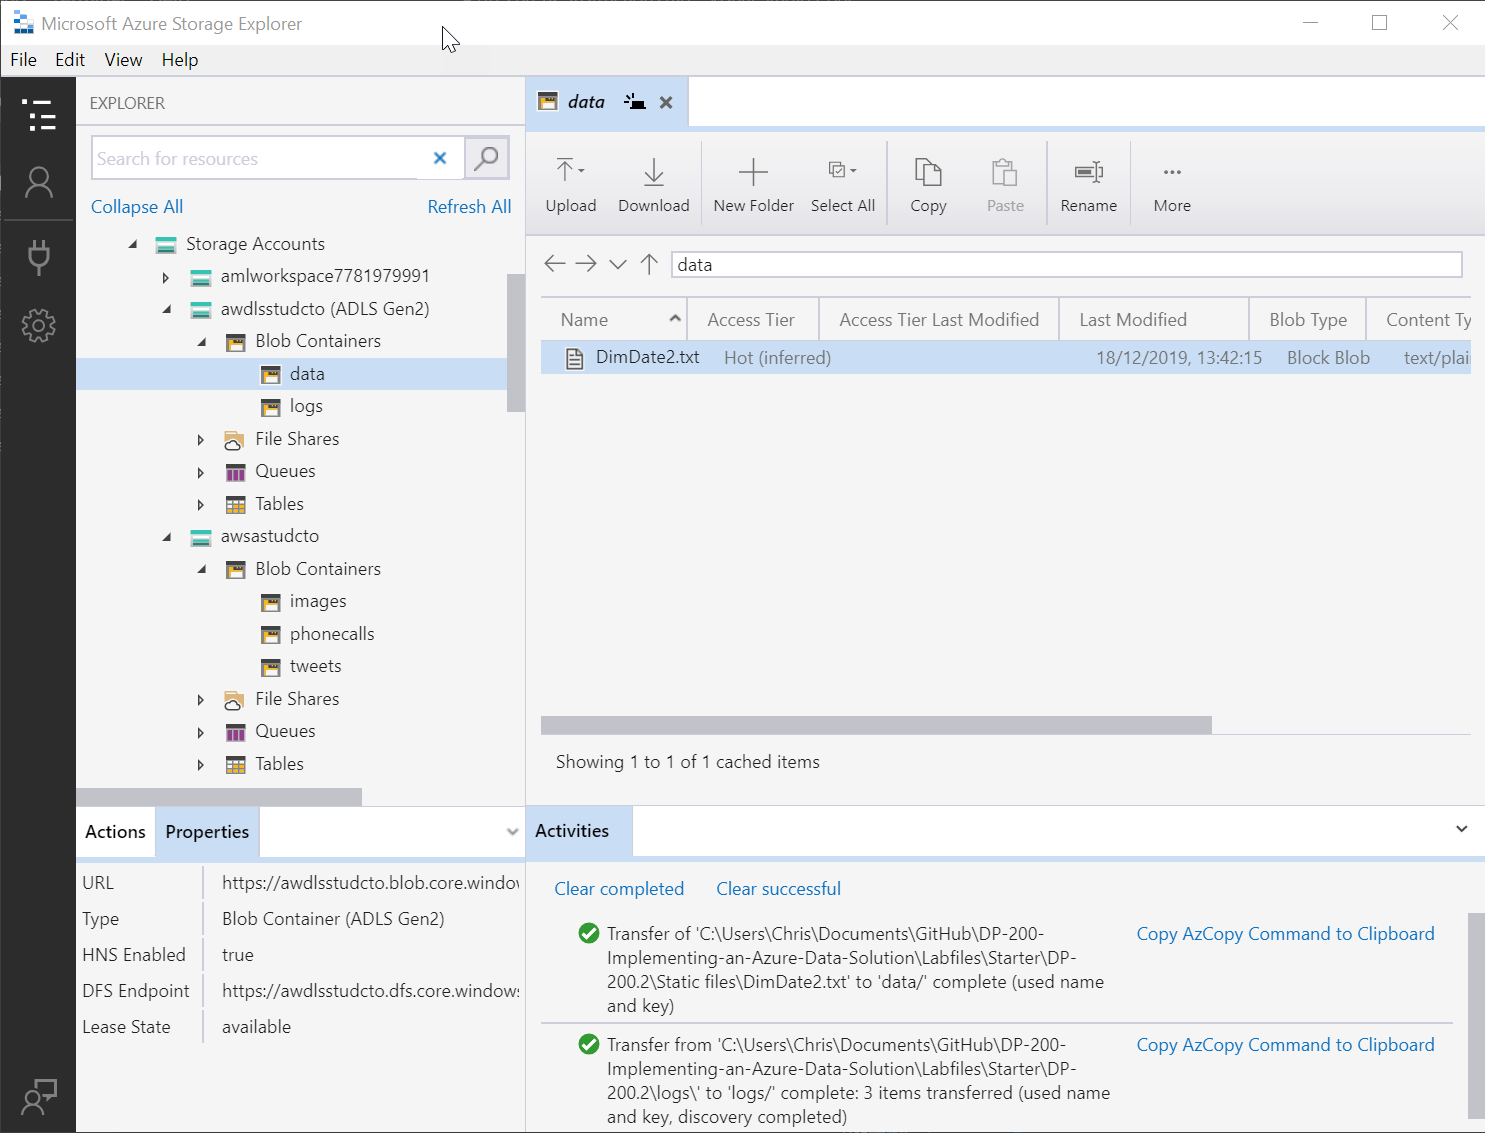
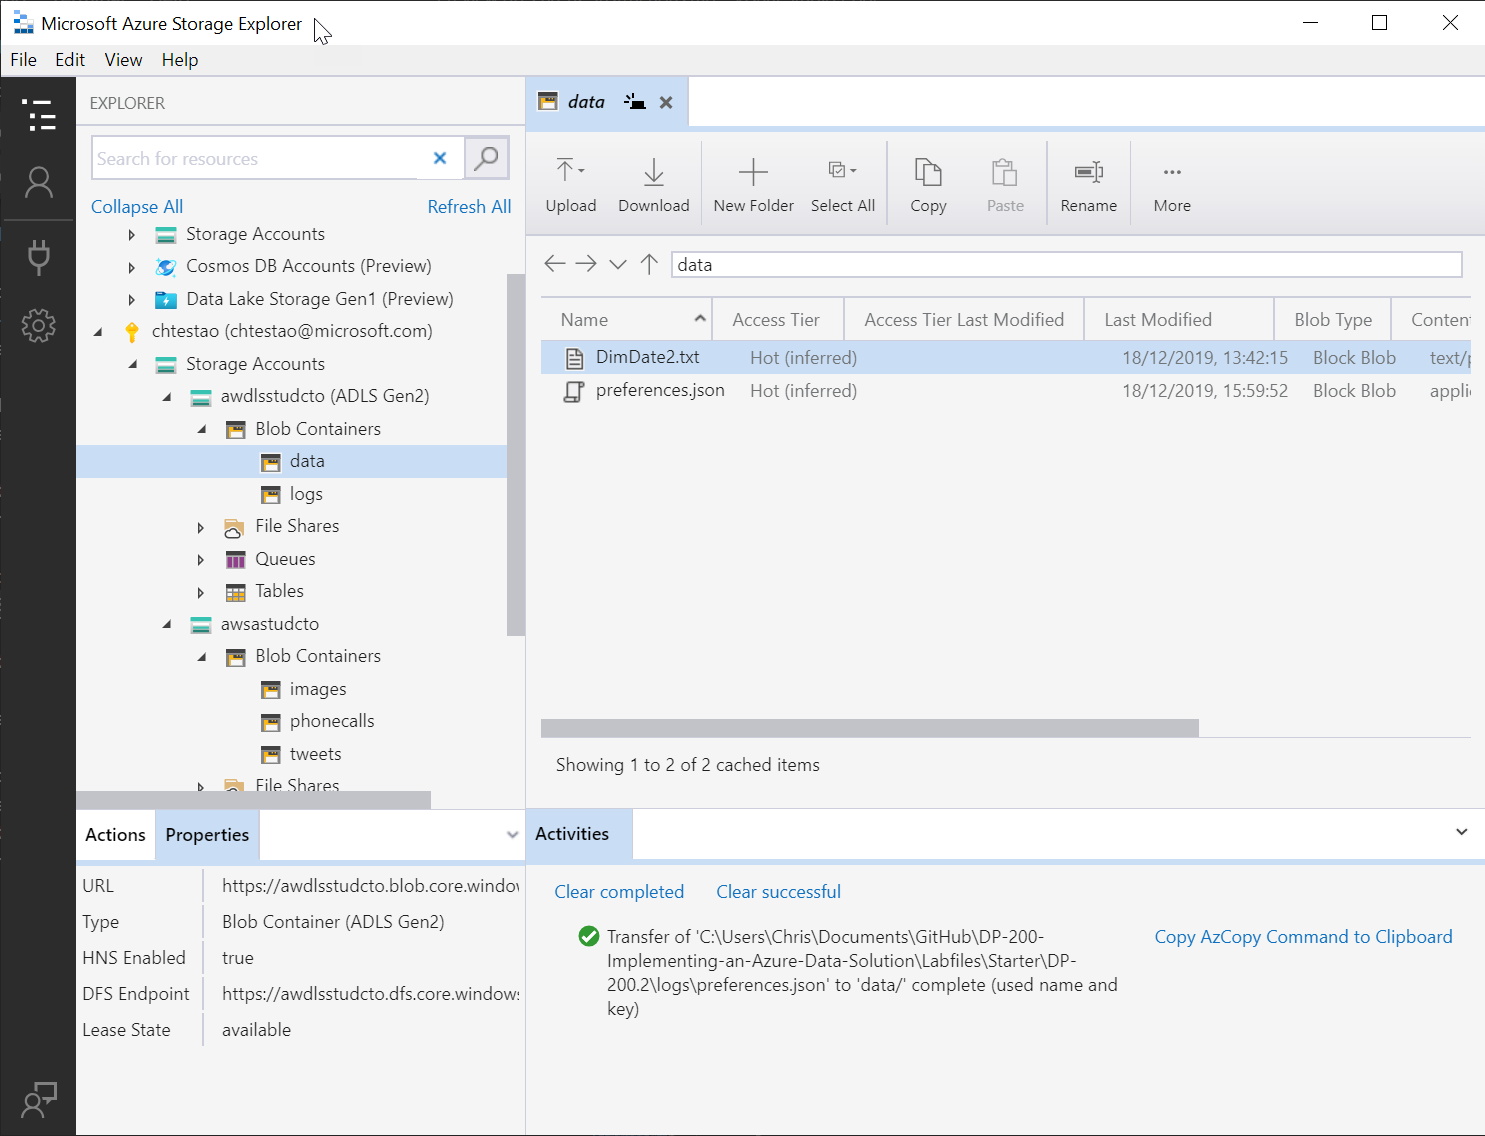
Module 3 lab updates

diff --git a/instructions/dp-200-03_instructions.md b/instructions/dp-200-03_instructions.md
@@ -9,7 +9,7 @@
 
 ## Lab overview
 
-By the end of this lab the student will be able to explain why Azure Databricks can be used to help in Data Science projects. The students will provision and Azure Databricks instance and will then create a workspace that will be used to perform a simple data preparation task from a Data Lake Store Gen II store. Finally, the student will perform a walk-through of performing transformations using Azure Databricks.
+By the end of this lab the student will be able to explain why Azure Databricks can be used to help in Data Science projects. The students will provision an Azure Databricks instance and will then create a workspace that will be used to perform simple data preparation tasks from a Data Lake Store Gen2 store. Finally, the student will perform a walk-through of performing transformations using Azure Databricks.
 
 ## Lab objectives
   
@@ -24,7 +24,7 @@ After completing this lab, you will be able to:
   
 In response to the Information Services (IS) department, you will start the process of building a predictive analytics platform by listing out the benefits of using the technology. The department will be joined by data scientists and they want to ensure that there is a predictive analytics environment available to the new team members.
 
-You will stand up and provision an Azure Databricks environment, and then test that this environment works by performing a simple data preparation routine on the service by ingesting data from a pre-existing Data Lake Storage Gen II account. As a data engineer, it has been indicated to you that you may be required to help the data scientists perform data preparation exercises. To that end you have been recommended to walk-through a notebook that can help you perform basic transformations.
+You will stand up and provision an Azure Databricks environment, and then test that this environment works by performing a simple data preparation routine on the service by ingesting data from a pre-existing Data Lake Storage Gen2 account. As a data engineer, it has been indicated to you that you may be required to help the data scientists perform data preparation exercises. To that end, you have been recommended to walk-through a notebook that can help you perform basic transformations.
 
 At the end of this lad, you will have:
 
@@ -37,7 +37,7 @@ At the end of this lad, you will have:
 
 ## Exercise 1: Explain Azure Databricks
 
->**Important**: Perform **exercise 2 first**, and return to exercise 1 after starting the creation of a Databricks Cluster in exercise 2 which will take 10 minutes to provision.
+>**Important**: Perform **exercise 2 first**, and return to exercise 1 after starting the creation of a Databricks Cluster in exercise 2, as it will take 10 minutes to provision.
 
 Estimated Time: 15 minutes
 
@@ -77,45 +77,49 @@ The main tasks for this exercise are as follows:
 
 ### Task 1: Create and configure an Azure Databricks instance.
 
-1. In the Azure portal, navigate to the **+ Create a resource** blade.
+1. In the Azure portal, at the top left of the screen, click on the **Home** hyperlink.
 
-1. In the New blade, navigate to the **Search the Marketplace** text box, and type the word **databricks**. Click **Azure Databricks** in the list that appears.
+1. In the Azure portal, click on the **+ Create a resource** icon.
+
+1. In the New screen, click in the **Search the Marketplace** text box, and type the word **databricks**. Click **Azure Databricks** in the list that appears.
 
 1. In the **Azure Databricks** blade, click **Create**.
 
-1. From the **Create Azure Databricks** blade, create an Azure Databricks Workspace with the following settings:
+1. In the **Azure Databricks Service** blade, create an Azure Databricks Workspace with the following settings:
 
-    - Workspace name: **awdbwsstudxx**, where **xx** are your initials.
+    - **Workspace name**: **awdbwsstudxx**, where **xx** are your initials.
 
-    - Subscription: the name of the subscription you are using in this lab
+    - **Subscription**: the name of the subscription you are using in this lab
 
-    - Resource group name: **awrgstudxx**, where **xx** are your initials.
+    - **Resource group**: **awrgstudxx**, where **xx** are your initials.
 
-    - Location: the name of the Azure region which is closest to the lab location and where you can provision Azure VMs.
+    - **Location**: the name of the Azure region which is closest to the lab location and where you can provision Azure VMs.
 
-    - Pricing Tier: **Premium (+ Role-based access controls)**.
+    - **Pricing Tier**: **Premium (+ Role-based access controls)**.
 
-    - Deploy Azure Databricks workspace in your Virtual Network: **No**.
+    - **Deploy Azure Databricks workspace in your Virtual Network**: **No**.
 
-1. In the **Azure Databricks Service*** blade, click **Create**.
+        ![Creating Azure Databricks in the Azure portal](Linked_Image_Files/M03-E02-T01-img01.png)
 
-1. After the validation of the **Create Azure Databricks*** blade, click **Create**.
+1. In the **Azure Databricks Service** blade, click **Create**.
 
    > **Note**: The provision will takes approximately 3 minutes. The Databricks Runtime is built on top of Apache Spark and is natively built for the Azure cloud. Azure Databricks completely abstracts out the infrastructure complexity and the need for specialized expertise to set up and configure your data infrastructure. For data engineers, who care about the performance of production jobs, Azure Databricks provides a Spark engine that is faster and performant through various optimizations at the I/O layer and processing layer (Databricks I/O).
-
+   
 ### Task 2: Open Azure Databricks.
 
 1. Confirm that the Azure Databricks service has been created.
 
-1. In the Azure portal, navigate to the **Resource group** blade.
+1. In the Azure portal, navigate to the **Resource group** screen.
 
-1. In the Resource groups blade, click on the ****awrgstudxx** resource group, where **xx** are your initials.
+1. In the Resource groups screen, click on the ****awrgstudxx** resource group, where **xx** are your initials.
 
-1. In the **awrgstudxx** blade, click **awdbwsstudxx**, where **xx** are your initials to open Azure Databricks. This will open your Azure Databricks instance.
+1. In the **awrgstudxx** screen, click **awdbwsstudxx**, where **xx** are your initials to open Azure Databricks. This will open your Azure Databricks service.
+
+    ![Azure Databricks Service in the Azure portal](Linked_Image_Files/M03-E02-T02-img01.png)
 
 ### Task 3: Launch a Databricks Workspace and create a Spark Cluster.
 
-1. In the Azure portal, in the **awdbwsstudxx** blade, click on the button **Launch Workspace**.
+1. In the Azure portal, in the **awdbwsstudxx** screen, click on the button **Launch Workspace**.
 
     > **Note**: You will be signed into the Azure Databricks Workspace in a separate tab in Microsoft Edge.
 
@@ -123,17 +127,19 @@ The main tasks for this exercise are as follows:
 
 1. In the **Create Cluster** screen, under New Cluster, create a Databricks Cluster with the following settings, and then click on **Create Cluster**:
 
-    - Cluster name: **awdbclstudxx**, where **xx** are your initials.
+    - **Cluster name**: **awdbclstudxx**, where **xx** are your initials.
 
-    - Cluster Mode: **Standard**
+    - **Cluster Mode**: **Standard**
 
-    - Databricks Runtime Version: **Runtime: 5.1 (Scala 2.11, Spark 2.4.0)**
+    - **Pool**: **None**
 
-    - Python Version: **3**
+    - **Databricks Runtime Version**: **Runtime: 6.2 (Scala 2.11, Spark 2.4.4)**
 
-    - Make sure you select the Terminate after **60** minutes of inactivity check box. If the cluster isn't being used, provide a duration (in minutes) to terminate the cluster.
+    - Make sure you select the **Terminate after 60** minutes of inactivity check box. If the cluster isn't being used, provide a duration (in minutes) to terminate the cluster.
 
     - Leave all the remaining options to their current settings.
+
+        ![Creating an Azure Databricks Cluster in the Azure portal](Linked_Image_Files/M03-E02-T03-img01.png)
 
 1. In the **Create Cluster** screen, click on **Create Cluster** and leave the Microsoft Edge screen open.
 
@@ -151,9 +157,9 @@ The main tasks for this exercise are as follows:
 
 1. Confirm that the Databricks cluster has been created.
 
-1. Collect the Azure Data Lake Store Gen II account name
+1. Collect the Azure Data Lake Store Gen2 account name
 
-1. Enable your Databricks instance to access the Data Lake Gen II Store.
+1. Enable your Databricks instance to access the Data Lake Gen2 Store.
 
 1. Create a Databricks Notebook and connect to a Data Lake Store.
 
@@ -161,47 +167,61 @@ The main tasks for this exercise are as follows:
 
 ### Task 1: Confirm the creation of the Databricks cluster
 
-1. Return back to Microsoft Edge, under **Interaction Clusters** confirm that the State is set to Running for the cluster named **awdbclstudxx**, where **xx** are your initials.
+1. Return back to Microsoft Edge, under **Interactive Clusters** confirm that the state column is set to **Running** for the cluster named **awdbclstudxx**, where **xx** are your initials.
 
-### Task 2: Collect the Azure Data Lake Store Gen II account name
+### Task 2: Collect the Azure Data Lake Store Gen2 account name
 
 1. In Microsoft Edge, click on the  Azure portal tab, click **Resource groups**, and then click **awrgstudxx**, and then click on **awdlsstudxx**, where **xx** are your initials.
 
-1. In the **awdlsstudxx** blade, click on **Access keys**, and then click on the copy icon next to the **Storage account name** and paste it into Notepad.
+1. In the **awdlsstudxx** screen, under settings, click on **Access keys**, and then click on the copy icon next to the **Storage account name** and paste it into Notepad.
 
-### Task 3: Enable your Databricks instance to access the Data Lake Gen II Store.
+    ![Accessing Data Lake Storage account name in the Azure portal](Linked_Image_Files/M03-E03-T02-img01.png)
 
-1. In Microsoft Edge, click on the tab that has the Azure portal, in the blade, click **Azure Active Directory**.
+### Task 3: Enable your Databricks instance to access the Data Lake Gen2 Store.
 
-1. In the **Overview** blade, click on **App registrations**.
+1. In the Azure portal, Click the **Home** hyperlink, and then click the **Azure Active Directory** icon.
 
-1. In the **App registrations** screen, click on the **+ New application registration** button.
+1. In the **Microsoft - Overview** screen, click on **App registrations**.
 
-1. In the register an application screen, provide the **name** of **DLAccess** and under the **Redirect URI (optional)** section, ensure **Web** is selected and type **https://adventure-works.com/exampleapp** for the application value. After setting the values, select **Register**. The DLAccess screen will appear.
+1. In the **Microsoft - App registrations** screen, click on the **+ New registration** button.
 
-1. In the **DLAccess** registered app screen, copy the **Application ID** and **Tenant ID** and paste both into Notepad.
+1. In the register an application screen, provide the **name** of **DLAccess** and under the **Redirect URI (optional)** section, ensure **Web** is selected and type **https://adventure-works.com/exampleapp** for the application value. After setting the values.
 
-1. In the **DLAccess** registered app screen, click on **Certificates and Secrets**, and the click **+New Client Secret..**
+    ![Registering an application in the Azure portal](Linked_Image_Files/M03-E03-T03-img01.png)
 
-1. Provide a **description** of **DL Access Key**, and a **duration** of **In 1 year** for the key. When done, click **Save**.
+1. Click **Register**. The DLAccess screen will appear.
 
-    >**Important**: When you click on Save, the key will appear. You only have one opportunity to copy this key value into Notepad
+1. In the **DLAccess** registered app screen, copy the **Application  (client) ID** and **Directory (tenant) ID** and paste both into Notepad.
+
+1. In the **DLAccess** registered app screen, click on **Certificates and Secrets**, and the click **+ New Client Secret**
+
+1. In the Add a client secret screen. type a **description** of **DL Access Key**, and a **duration** of **In 1 year** for the key. When done, click **Add**.
+
+    ![Adding a client secret in the Azure portal](Linked_Image_Files/M03-E03-T03-img02.png)
+
+    >**Important**: When you click on **Add**, the key will appear as shown in the graphic below. You only have one opportunity to copy this key value into Notepad
+
+    ![Location of the DLAccess Key](Linked_Image_Files/M03-E03-T03-img03.png)
 
 1. Copy the **Application key value** and paste it into Notepad
 
-1. Assign the Storage Blob Data Contributor permission to your resource group. In the Azure portal, click on the **Resource groups** blade, click on the resource group **awrgstudxx**, where **xx** are your initials.
+1. Assign the Storage Blob Data Contributor permission to your resource group. In the Azure portal, click on the **Home** hyperlink, and then the **Resource groups** icon, click on the resource group **awrgstudxx**, where **xx** are your initials.
 
-1. In the **awrgstudxx** blade, click on **Access Control (IAM)** 
+1. In the **awrgstudxx** screen, click on **Access Control (IAM)** 
 
-1. Under **Add a role assignment** click **Add**.
+1. Click on the **Role assignments** tab. 
 
-1. In the **Add role assignment** screen, under Role, select **Storage Blob Data Contributor**.
+1. Click **+ Add**, and click **Add role assignment**
 
-1. In the **Add role assignment** screen, under Select, select **DLAccess**, and then click **Save**.
+1. In the **Add role assignment** blade, under Role, select **Storage Blob Data Contributor**.
 
-1. In the Azure portal, in the blade, click **Azure Active Directory**, Note **your role**. If you have the User role, you must make sure that non-administrators can register applications.
+1. In the **Add role assignment** blade, under Select, select **DLAccess**, and then click **Save**.
 
-1. Click  **User settings** in the Azure Active Directory blade, Check the **App registrations** setting. This value can only be set by an administrator. If set to Yes, any user in the Azure AD tenant can register an app.
+1. In the Azure portal, click the **Home** hyperlink, and then click the **Azure Active Directory** icon, Note **your role**. If you have the User role, you must make sure that non-administrators can register applications.
+
+1. Click **Users**, and then click **User settings** in the **Users - All users** blade, Check the **App registrations** setting. This value can only be set by an administrator. If set to Yes, any user in the Azure AD tenant can register an app. 
+
+1. Close down the **Users - All users** screen.
 
 1. In the Azure Active Directory blade, click **Properties**.
 
@@ -223,9 +243,11 @@ The main tasks for this exercise are as follows:
 
 1. Ensure that the Cluster states the name of the cluster that you have created earlier, click on **Create**
 
+    ![Creating a Notebook in Azure Databricks](Linked_Image_Files/M03-E03-T04-img01.png)
+
      > **Note**: This will open up a Notebook with the title My Notebook (Scala).
 
-1. In the Notebook, in the cell  **Cmd 1**, copy the following code and paster it into the cell:
+1. In the Notebook, in the cell  **Cmd 1**, copy the following code and paste it into the cell:
 
     ```scala
     //Connect to Azure Data Lake Storage Gen2 account
@@ -239,15 +261,19 @@ The main tasks for this exercise are as follows:
 
 1. In this code block, replace the **application-id**, **authentication-id**, **tenant-id**, **file-system-name** and **storage-account-name** placeholder values in this code block with the values that you collected earlier and are held in notepad.
 
-1. In the Notebook, in the cell under **Cmd 1**, click on the **Run** icon and click on **Run Cell**. 
+1. In the Notebook, in the cell under **Cmd 1**, click on the **Run** icon and click on **Run Cell** as highlighted in the following graphic. 
+
+    ![Running cvode in a Notebook in Azure Databricks](Linked_Image_Files/M03-E03-T04-img02.png)
 
     >**Note** A message will be returned at the bottom of the cell that states "Command took 0.0X seconds -- by person at 4/4/2019, 2:46:48 PM on awdbclstudxx"
 
 ### Task 5: Read data in Azure Databricks.
 
-1. In the Notebook, hover your mouse at the bottom of cell **Cmd 1**, and click on the **+** icon. A new cell will appear named **Cmd2**.
+1. In the Notebook, hover your mouse at the top right of cell **Cmd 1**, and click on the **Add Cell Below** icon. A new cell will appear named **Cmd2**.
 
-1. In the Notebook, in the cell  **Cmd 2**, copy the following code and paster it into the cell:
+    ![Adding a cell in a Notebook in Azure Databricks](Linked_Image_Files/M03-E03-T04-img03.png)
+
+1. In the Notebook, in the cell  **Cmd 2**, copy the following code and paste it into the cell:
 
     ```scala
     //Read JSON data in Azure Data Lake Storage Gen2 file system
@@ -261,9 +287,9 @@ The main tasks for this exercise are as follows:
 
     >**Note** A message will be returned at the bottom of the cell that states that a Spark job has executed and "Command took 0.0X seconds -- by person at 4/4/2019, 2:46:48 PM on awdbclstudxx"
 
-1. In the Notebook, hover your mouse at the bottom of cell **Cmd 2**, and click on the **+** icon. A new cell will appear named **Cmd3**.
+1. In the Notebook, hover your mouse at the top right of cell **Cmd 2**, and click on the **Add Cell Below** icon. A new cell will appear named **Cmd3**.
 
-1. In the Notebook, in the cell  **Cmd 3**, copy the following code and paster it into the cell:
+1. In the Notebook, in the cell  **Cmd 3**, copy the following code and paste it into the cell:
 
     ```scala
     //Show result of reading the JSON file
@@ -271,13 +297,15 @@ The main tasks for this exercise are as follows:
     df.show()
     ```
 
+    ![Running results in a Notebook in Azure Databricks](Linked_Image_Files/M03-E03-T04-img04.png)
+
 1. In the Notebook, in the cell under **Cmd 3**, click on the **Run** icon and click on **Run Cell**.
 
     >**Note**  A message will be returned at the bottom of the cell that states that a Spark job has executed, a table of results are returned and "Command took 0.0X seconds -- by person at 4/4/2019, 2:46:48 PM on awdbclstudxx"
 
 1. Leave the Azure Databricks Notebook open
 
->**Result** In this exercise, you have performed the necessary steps that setup up the permission for Azure Databricks to access data in an Azure Data Lake Store Gen II. You then used scala to connect up to a Data Lake Store and you read data and created a table output showing the preferences of people.
+>**Result** In this exercise, you have performed the necessary steps that setup up the permission for Azure Databricks to access data in an Azure Data Lake Store Gen2. You then used scala to connect up to a Data Lake Store and you read data and created a table output showing the preferences of people.
 
 ## Exercise 4: Perform basic transformations with Azure Databricks
 
@@ -297,9 +325,9 @@ The main tasks for this exercise are as follows:
 
 ### Task 1: Retrieve specific columns on a Dataset
 
-1. In the Notebook, hover your mouse at the bottom of cell **Cmd 3**, and click on the **+** icon. A new cell will appear named **Cmd4**.
+1. In the Notebook, hover your mouse at the top right of cell **Cmd 3**, and click on the **Add Cell Below** icon. A new cell will appear named **Cmd4**.
 
-1. In the Notebook, in the cell  **Cmd 4**, copy the following code and paster it into the cell:
+1. In the Notebook, in the cell  **Cmd 4**, copy the following code and paste it into the cell:
 
     ```scala
     //Retrieve specific columns from a JSON dataset in Azure Data Lake Storage Gen2 file system
@@ -312,11 +340,13 @@ The main tasks for this exercise are as follows:
 
     >**Note**  A message will be returned at the bottom of the cell that states that a Spark job has executed, a table of results are returned and "Command took 0.0X seconds -- by person at 4/4/2019, 2:46:48 PM on awdbclstudxx"
 
+    ![Running a scala query in a Notebook in Azure Databricks](Linked_Image_Files/M03-E04-T01-img01.png)
+
 ### Task 2: Performing a column rename on a Dataset
 
-1. In the Notebook, hover your mouse at the bottom of cell **Cmd 4**, and click on the **+** icon. A new cell will appear named **Cmd5**.
+1. In the Notebook, hover your mouse at the top right of cell **Cmd 4**, and click on the **Add Cell Below** icon. A new cell will appear named **Cmd5**.
 
-1. In the Notebook, in the cell  **Cmd 5**, copy the following code and paster it into the cell:
+1. In the Notebook, in the cell  **Cmd 5**, copy the following code and paste it into the cell:
 
     ```scala
     //Rename the page column to bike_preference
@@ -329,11 +359,13 @@ The main tasks for this exercise are as follows:
 
     >**Note**  A message will be returned at the bottom of the cell that states that a Spark job has executed, a table of results are returned and "Command took 0.0X seconds -- by person at 4/4/2019, 2:46:48 PM on awdbclstudxx"
 
+    ![Renaming columns in a query in a Notebook in Azure Databricks](Linked_Image_Files/M03-E04-T02-img01.png)
+
 ### Task 3: Adding Annotations
 
-1. In the Notebook, hover your mouse at the bottom of cell **Cmd 5**, and click on the **+** icon. A new cell will appear named **Cmd6**.
+1. In the Notebook, hover your mouse at the top right of cell **Cmd 5**, and click on the **Add Cell Below** icon. A new cell will appear named **Cmd6**.
 
-1. In the Notebook, in the cell  **Cmd 6**, copy the following code and paster it into the cell:
+1. In the Notebook, in the cell  **Cmd 6**, copy the following code and paste it into the cell:
 
     ```text
     This code connects to the Data Lake Storage filesystem named "Data" and reads data in the preferences.json file stored in that data lake. Then a simple query has been created to retrieve data and the column "page" has been renamed to "bike_preference".

diff --git a/instructions/dp-200-02_instructions.md b/instructions/dp-200-02_instructions.md
@@ -353,9 +353,11 @@ The main task for this exercise are as follows:
 
 1. In the **Upload Files** screen, click on the **Upload** button.
 
-   > **Note**: The upload of the files will take approximately 5 seconds. You will see a message in Azure Storage Explorer that states **Your view may be out of data. Do you want to refresh? Click Yes**. Once completed, all three files will appear in a list in the upload blobs screen.
+1. Repeat the steps to upload the preferences.JSON file from the **Labfiles\Starter\DP-200.2\logs** folder to the **data** file system in the Data Lake Store gen2
 
-   ![Files uploaded to Containers in Azure Storage Explore](Linked_Image_Files/M02-E04-T02-img02.png)
+   > **Note**: The upload of the files will take approximately 5 seconds. You will see a message in Azure Storage Explorer that states **Your view may be out of data. Do you want to refresh? Click Yes**. Once completed, all two files will appear in a list in the upload blobs screen.
+
+    ![Files uploaded to Containers in Azure Storage Explore](Linked_Image_Files/M02-E04-T02-img02.png)
 
 1. Close down Azure Storage Explorer.
 
